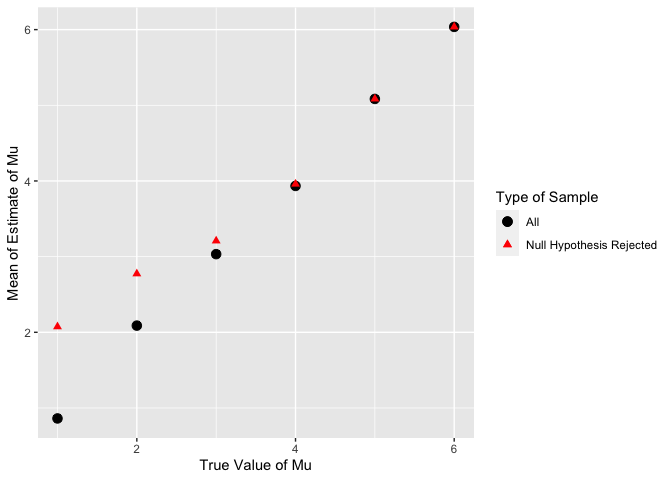
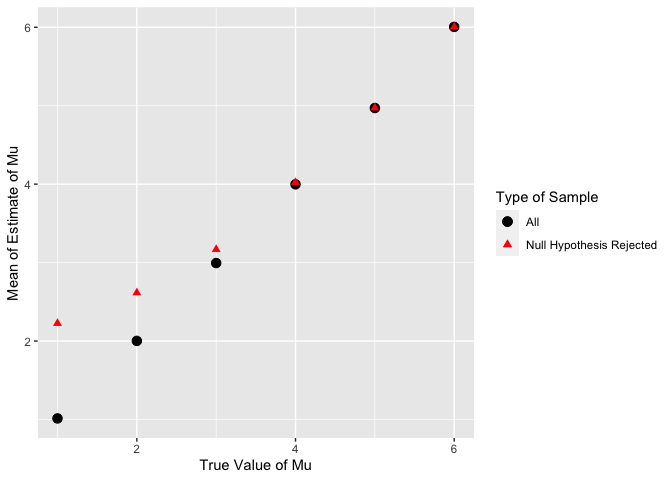
updated simulation from 100 to 5000

diff --git a/p8105_hw5_si2426.md b/p8105_hw5_si2426.md
@@ -19,8 +19,6 @@ transform(
          victim_sex = as.factor(victim_sex))
 ```
 
-    ## Warning in mask$eval_all_mutate(quo): NAs introduced by coercion
-
 The raw data contains 52179 observations and 12 variables. The key
 variables are `uid`, `reported_date`, `victim_last`, `victim_first`,
 `victim_race`, `victim_age`, `victim_sex`, `city`, `state`, `lat`,
@@ -62,10 +60,13 @@ baltimoreptest =
 baltimoreptest = baltimoreptest %>% 
   broom::tidy()
 
-baltimoreptest_estimate = round(baltimoreptest %>% pull(estimate), 2)
+baltimoreptest_estimate = round(baltimoreptest %>% 
+                                  pull(estimate), 2)
 
-baltimoreptest_low = round(baltimoreptest %>% pull(conf.low), 2)
-baltimoreptest_high = round(baltimoreptest %>% pull(conf.high), 2)
+baltimoreptest_low = round(baltimoreptest %>% 
+                             pull(conf.low), 2)
+baltimoreptest_high = round(baltimoreptest %>% 
+                              pull(conf.high), 2)
 ```
 
 The estimated proportion is approximately 0.65 and the 95% confidence
@@ -85,20 +86,18 @@ homicide_sum = homicide_summary %>%
   select(-c(prop_test, parameter, method, alternative)) %>%
   mutate(city_state = fct_reorder(city_state, estimate))
 
-head(homicide_sum)
+head(homicide_sum) %>% 
+  knitr::kable()
 ```
 
-    ## # A tibble: 6 × 8
-    ##   city_state      total_homic…¹ unsol…² estim…³ stati…⁴  p.value conf.…⁵ conf.…⁶
-    ##   <fct>                   <int>   <int>   <dbl>   <dbl>    <dbl>   <dbl>   <dbl>
-    ## 1 Albuquerque, NM           378     146   0.386 1.91e+1 1.23e- 5   0.337   0.438
-    ## 2 Atlanta, GA               973     373   0.383 5.25e+1 4.32e-13   0.353   0.415
-    ## 3 Baltimore, MD            2827    1825   0.646 2.39e+2 6.46e-54   0.628   0.663
-    ## 4 Baton Rouge, LA           424     196   0.462 2.27e+0 1.32e- 1   0.414   0.511
-    ## 5 Birmingham, AL            800     347   0.434 1.38e+1 2.05e- 4   0.399   0.469
-    ## 6 Boston, MA                614     310   0.505 4.07e-2 8.40e- 1   0.465   0.545
-    ## # … with abbreviated variable names ¹total_homicide, ²unsolved_homicides,
-    ## #   ³estimate, ⁴statistic, ⁵conf.low, ⁶conf.high
+| city_state      | total_homicide | unsolved_homicides |  estimate |   statistic |   p.value |  conf.low | conf.high |
+|:----------------|---------------:|-------------------:|----------:|------------:|----------:|----------:|----------:|
+| Albuquerque, NM |            378 |                146 | 0.3862434 |  19.1137566 | 0.0000123 | 0.3372604 | 0.4375766 |
+| Atlanta, GA     |            973 |                373 | 0.3833505 |  52.4933196 | 0.0000000 | 0.3528119 | 0.4148219 |
+| Baltimore, MD   |           2827 |               1825 | 0.6455607 | 239.0109657 | 0.0000000 | 0.6275625 | 0.6631599 |
+| Baton Rouge, LA |            424 |                196 | 0.4622642 |   2.2665094 | 0.1321974 | 0.4141987 | 0.5110240 |
+| Birmingham, AL  |            800 |                347 | 0.4337500 |  13.7812500 | 0.0002054 | 0.3991889 | 0.4689557 |
+| Boston, MA      |            614 |                310 | 0.5048860 |   0.0407166 | 0.8400859 | 0.4646219 | 0.5450881 |
 
 #### Plotting the Proportions of Unsolved Homicides
 
@@ -127,9 +126,9 @@ Chicago and all other cities.
 #### Simulating $\mu$ = 0
 
 ``` r
-simulation = function(n = 30, mu, sigma = 5) 
+create_simulation = function(n = 30, mu, sigma = 5) 
   {
-  sim_data = tibble(
+  simulation_results = tibble(
     x = rnorm(n = n, mean = mu, sd = sigma),
   )
   }
@@ -140,7 +139,7 @@ mu_0_df =
     iter = 1:5000
   ) %>% 
   mutate(
-    estimate_df = map(sample_size, ~simulation(mu = 0))
+    estimate_df = map(sample_size, ~create_simulation(mu = 0))
   ) %>% 
   group_by(iter) %>%
   mutate(
@@ -159,32 +158,31 @@ clean_t_test = function(x)
 
 mu_0_df = mu_0_df %>% clean_t_test
 
-head(mu_0_df, 5)
+head(mu_0_df, 5) %>% 
+  knitr::kable()
 ```
 
-    ## # A tibble: 5 × 8
-    ## # Groups:   iter [5]
-    ##   sample_size  iter   mean statistic p.value conf.low conf.high null_rejected
-    ##         <dbl> <int>  <dbl>     <dbl>   <dbl>    <dbl>     <dbl> <lgl>        
-    ## 1          30     1  0.398     0.520   0.607    -1.17      1.96 FALSE        
-    ## 2          30     2  0.175     0.241   0.811    -1.31      1.66 FALSE        
-    ## 3          30     3 -0.298    -0.320   0.751    -2.20      1.60 FALSE        
-    ## 4          30     4  0.277     0.285   0.778    -1.71      2.26 FALSE        
-    ## 5          30     5 -0.534    -0.475   0.638    -2.83      1.76 FALSE
+| sample_size | iter |       mean |  statistic |   p.value |  conf.low | conf.high | null_rejected |
+|------------:|-----:|-----------:|-----------:|----------:|----------:|----------:|:--------------|
+|          30 |    1 |  0.3979108 |  0.5204655 | 0.6066903 | -1.165726 |  1.961548 | FALSE         |
+|          30 |    2 |  0.1753150 |  0.2407882 | 0.8114135 | -1.313792 |  1.664422 | FALSE         |
+|          30 |    3 | -0.2975351 | -0.3201209 | 0.7511718 | -2.198466 |  1.603396 | FALSE         |
+|          30 |    4 |  0.2768135 |  0.2849465 | 0.7777103 | -1.710041 |  2.263668 | FALSE         |
+|          30 |    5 | -0.5340273 | -0.4754918 | 0.6379986 | -2.831035 |  1.762981 | FALSE         |
 
 #### Simulating Different Values of $\mu$
 
 ``` r
 combined_mu_df = vector("list", 6)
 
-bind = for(i in 1:6)
+for(i in 1:6)
 {
   combined_mu_df[[i]] = (expand_grid(
     sample_size = 30,
-    iter = 1:100
+    iter = 1:5000
   ) %>% 
   mutate(
-    estimate_df = map(sample_size, ~simulation(mu = i))
+    estimate_df = map(sample_size, ~create_simulation(mu = i))
   ) %>% 
   group_by(iter) %>%
   mutate(
@@ -197,7 +195,19 @@ bind = for(i in 1:6)
 }
 
 combined_mu_df = combined_mu_df %>% do.call(rbind, .)
+
+head(combined_mu_df) %>% 
+  knitr::kable()
 ```
+
+| sample_size | iter |  mu |       mean |  statistic |   p.value |   conf.low | conf.high | null_rejected |
+|------------:|-----:|----:|-----------:|-----------:|----------:|-----------:|----------:|:--------------|
+|          30 |    1 |   1 | -0.9612061 | -1.0403046 | 0.3067944 | -2.8509289 | 0.9285167 | FALSE         |
+|          30 |    2 |   1 |  0.3076869 |  0.3156362 | 0.7545391 | -1.6860338 | 2.3014076 | FALSE         |
+|          30 |    3 |   1 |  0.1165000 |  0.1266977 | 0.9000541 | -1.7641126 | 1.9971126 | FALSE         |
+|          30 |    4 |   1 |  1.2971497 |  1.6122208 | 0.1177453 | -0.3483873 | 2.9426867 | FALSE         |
+|          30 |    5 |   1 |  1.3623081 |  1.4969086 | 0.1452227 | -0.4990166 | 3.2236327 | FALSE         |
+|          30 |    6 |   1 |  0.6821793 |  0.8171570 | 0.4205016 | -1.0252199 | 2.3895785 | FALSE         |
 
 #### Proportion of Times Null Rejected
 
